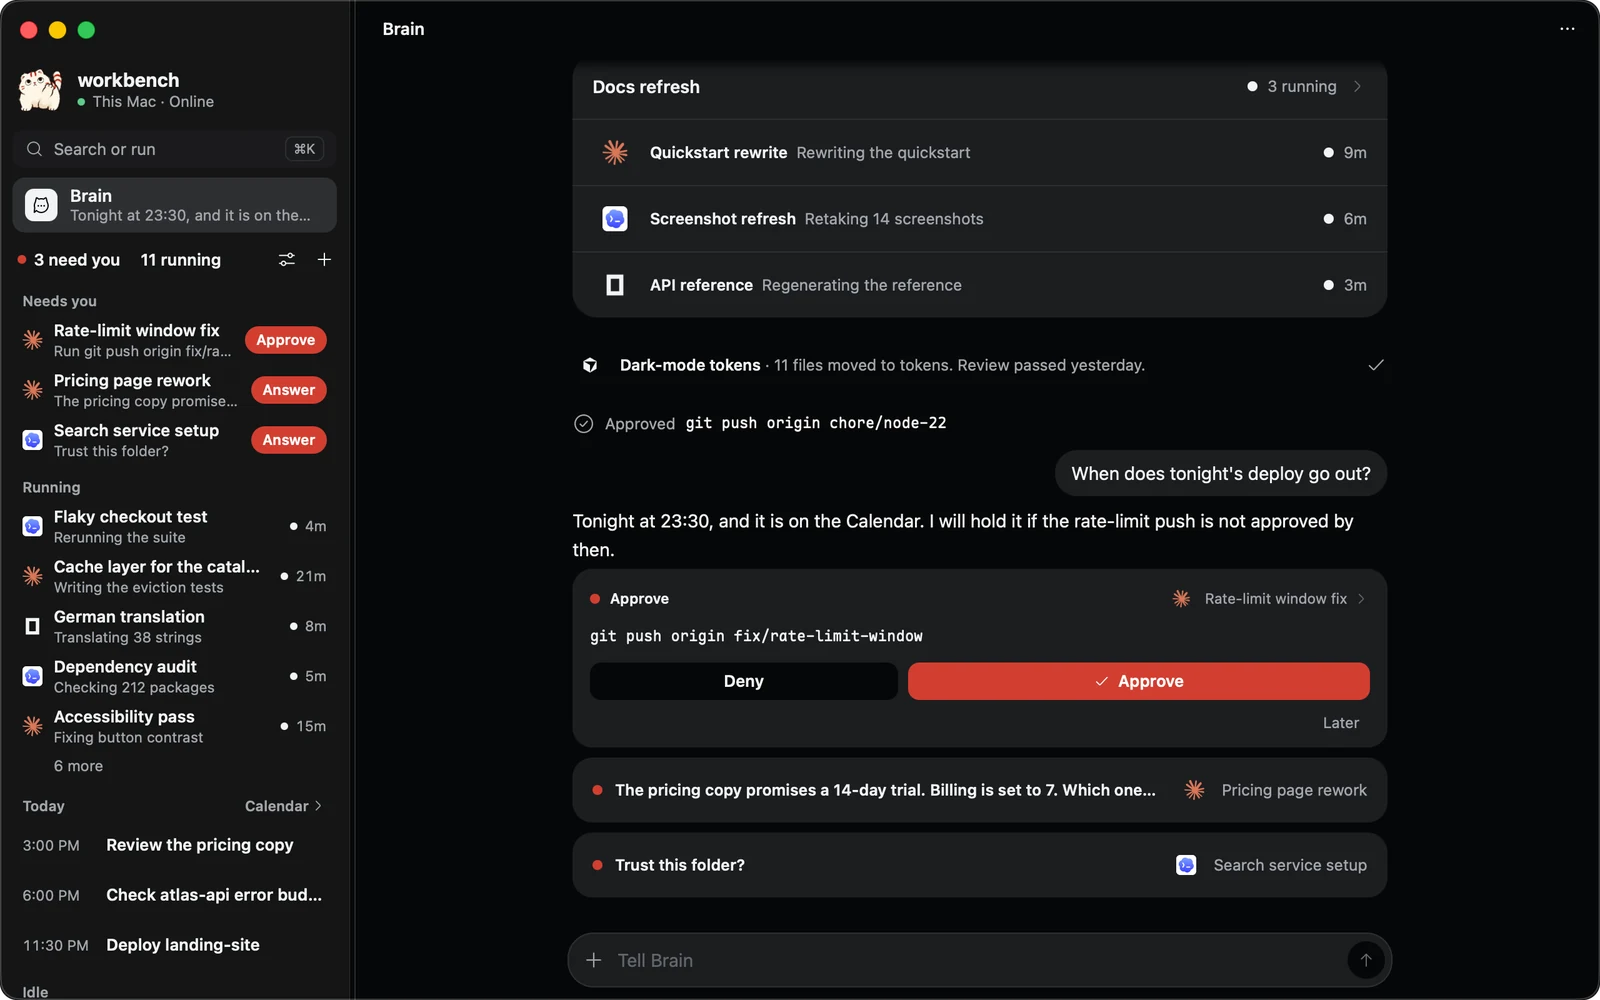
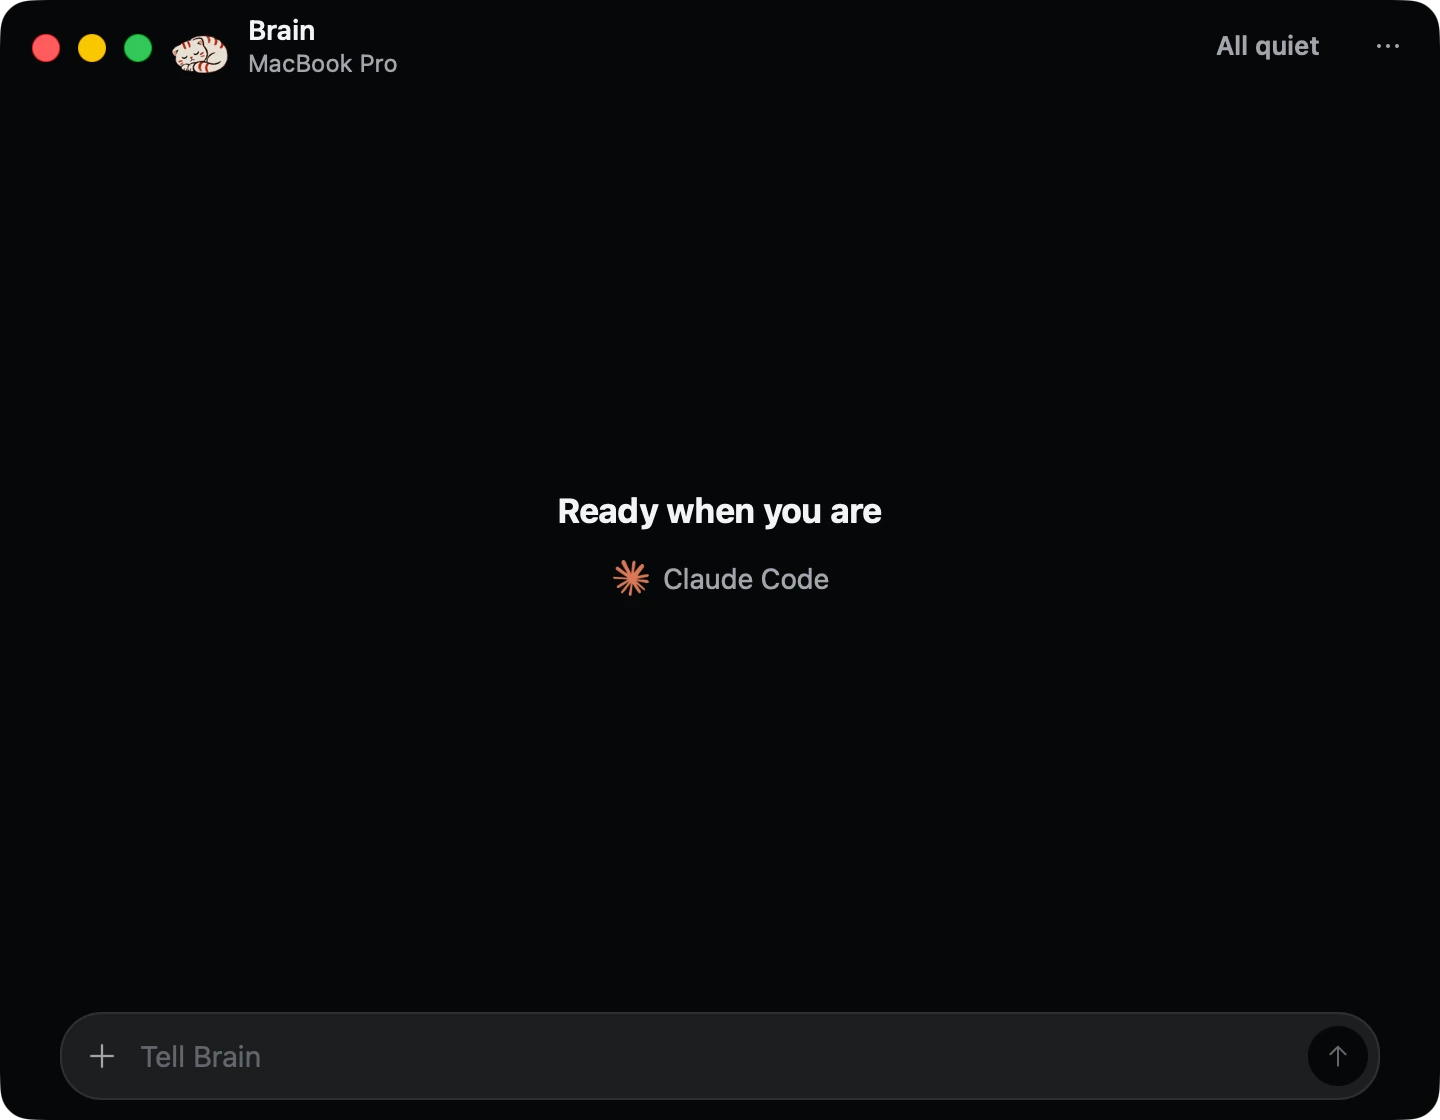
Show the signed first-run window on the Mac landing section

diff --git a/site/index.html b/site/index.html
@@ -182,7 +182,7 @@
         <li><a href="docs/mac-app/">Mewla for Mac<svg class="ic s"><use href="#i-chevron-right"/></svg></a></li>
       </ul>
     </div>
-    <figure class="mac-desk rise"><picture><source srcset="shots/mac-dark.webp" media="(prefers-color-scheme: dark)"><img src="shots/mac-light.webp" alt="Mewla for Mac: what needs you and what's running on the left, Brain's thread on the right" width="1600" height="1000" loading="lazy"></picture></figure>
+    <figure class="mac-desk rise"><picture><source srcset="shots/mac-dark.webp" media="(prefers-color-scheme: dark)"><img src="shots/mac-light.webp" alt="Brain’s first window on a Mac, ready for a message" width="1440" height="1120" loading="lazy"></picture></figure>
   </div>
 </section>
 

diff --git a/site/styles.css b/site/styles.css
@@ -133,7 +133,7 @@ picture img{width:100%;height:auto}
 
 /* the Mac window, on the same desk the widgets sit on */
 .mac-desk{padding:16px;border-radius:28px;background:linear-gradient(160deg,#E9D8C9,#C9D3E6 55%,#B9C9C2)}
-.mac-desk img{width:100%;height:auto;filter:drop-shadow(0 12px 28px rgba(19,20,22,.24))}
+.mac-desk img{display:block;width:100%;max-width:720px;height:auto;margin:auto;filter:drop-shadow(0 12px 28px rgba(19,20,22,.24))}
 @media (prefers-color-scheme:dark){:root:not([data-theme="light"]) .mac-desk{background:linear-gradient(160deg,#3B302C,#252B3A 55%,#1F2E2A)}}
 :root[data-theme="dark"] .mac-desk{background:linear-gradient(160deg,#3B302C,#252B3A 55%,#1F2E2A)}
 
